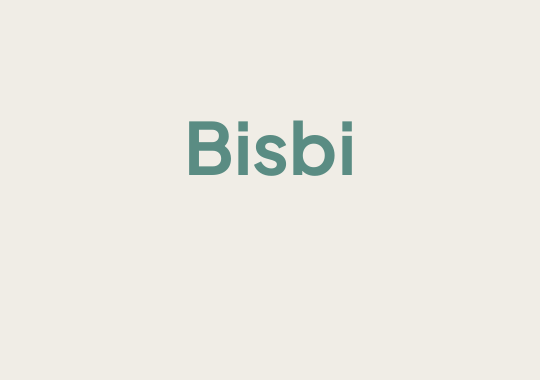
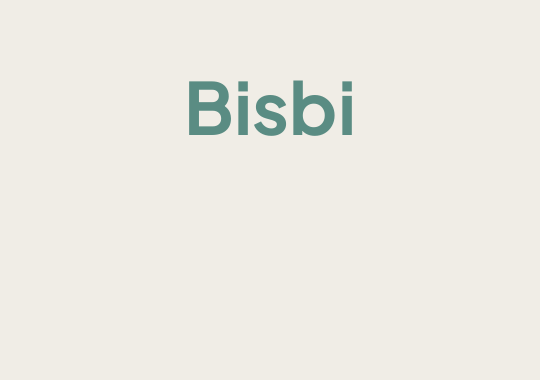
fix: adjust vertical position of "Bisbi" text in DMG background generation script

Changed region(s): [[0.3259, 0.2026, 0.6519, 0.4632]]

diff --git a/scripts/generate-dmg-background.py b/scripts/generate-dmg-background.py
@@ -46,7 +46,7 @@ def render(scale: int, path: Path) -> None:
 
     tw = d.textlength("Bisbi", font=title)
     bbox = title.getbbox("Bisbi")
-    d.text(((w - tw) / 2, 120 * scale - bbox[1]), "Bisbi", font=title, fill=GREEN)
+    d.text(((w - tw) / 2, 80 * scale - bbox[1]), "Bisbi", font=title, fill=GREEN)
 
     img.save(path, "PNG")
     print(f"wrote {path} ({w}x{h})")